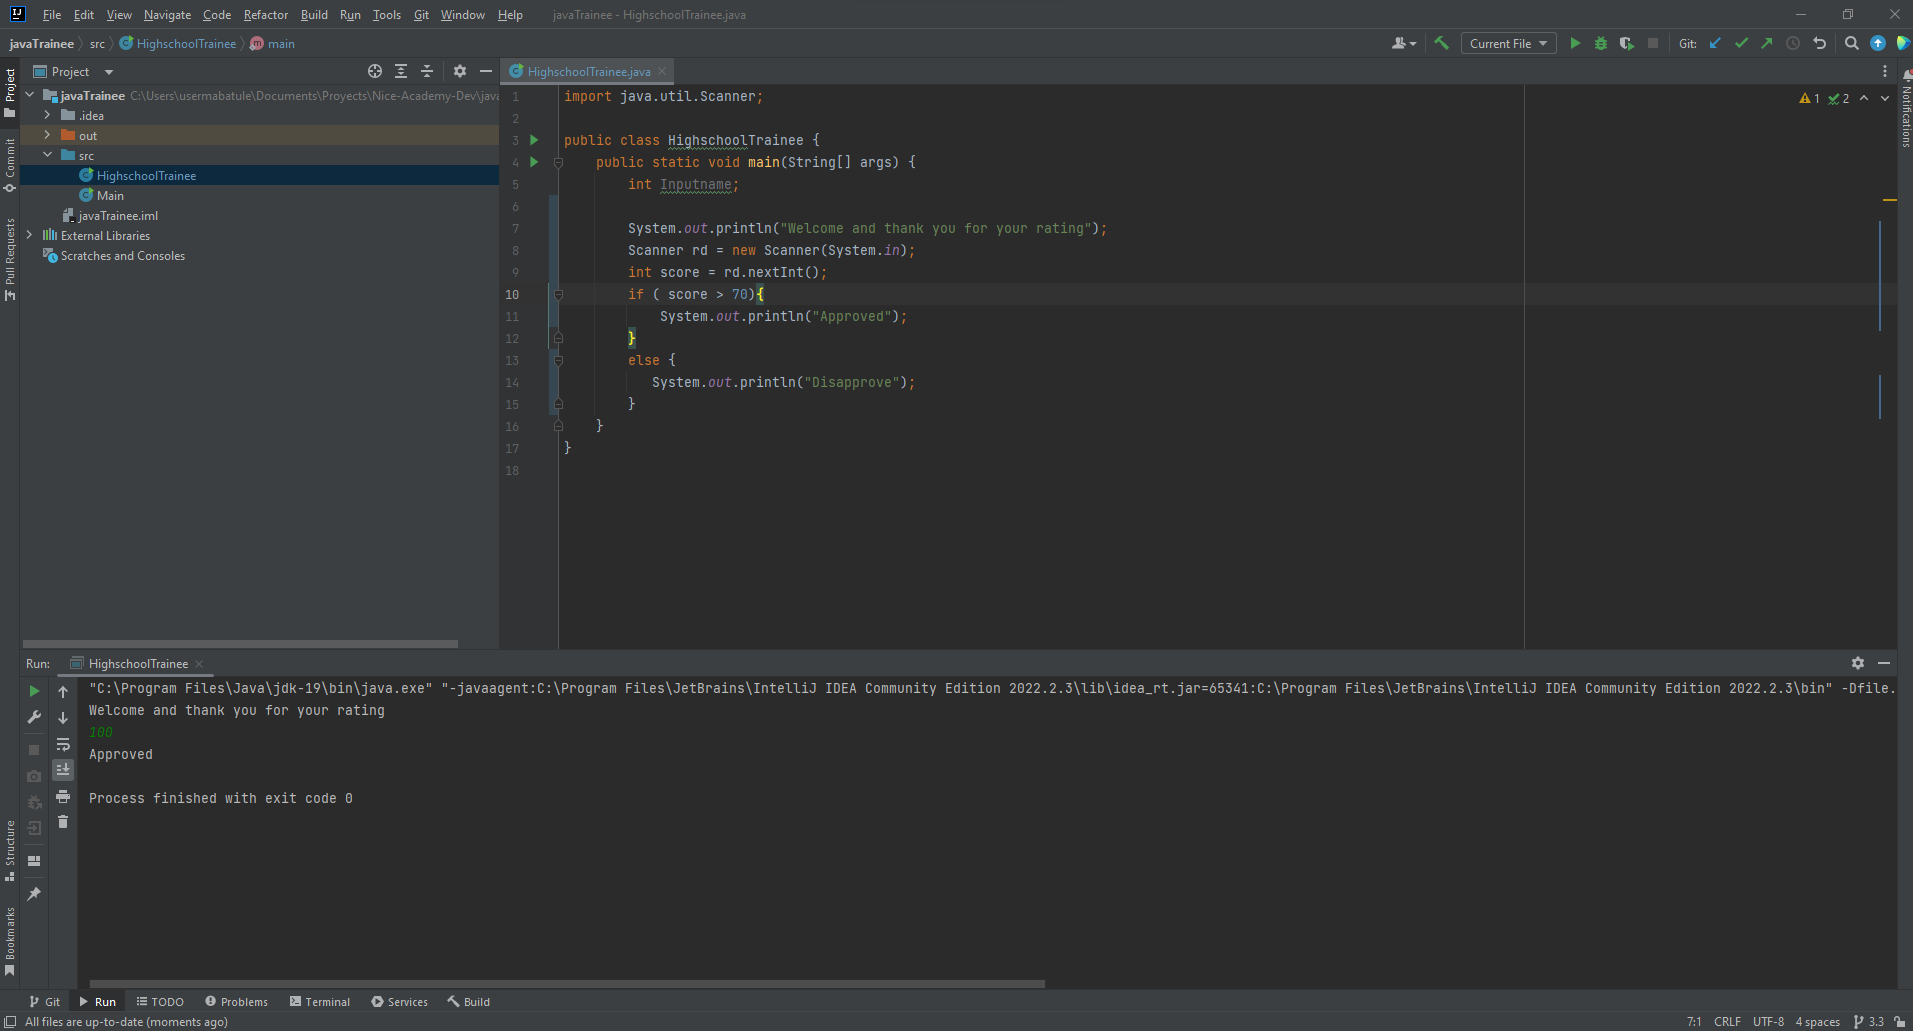
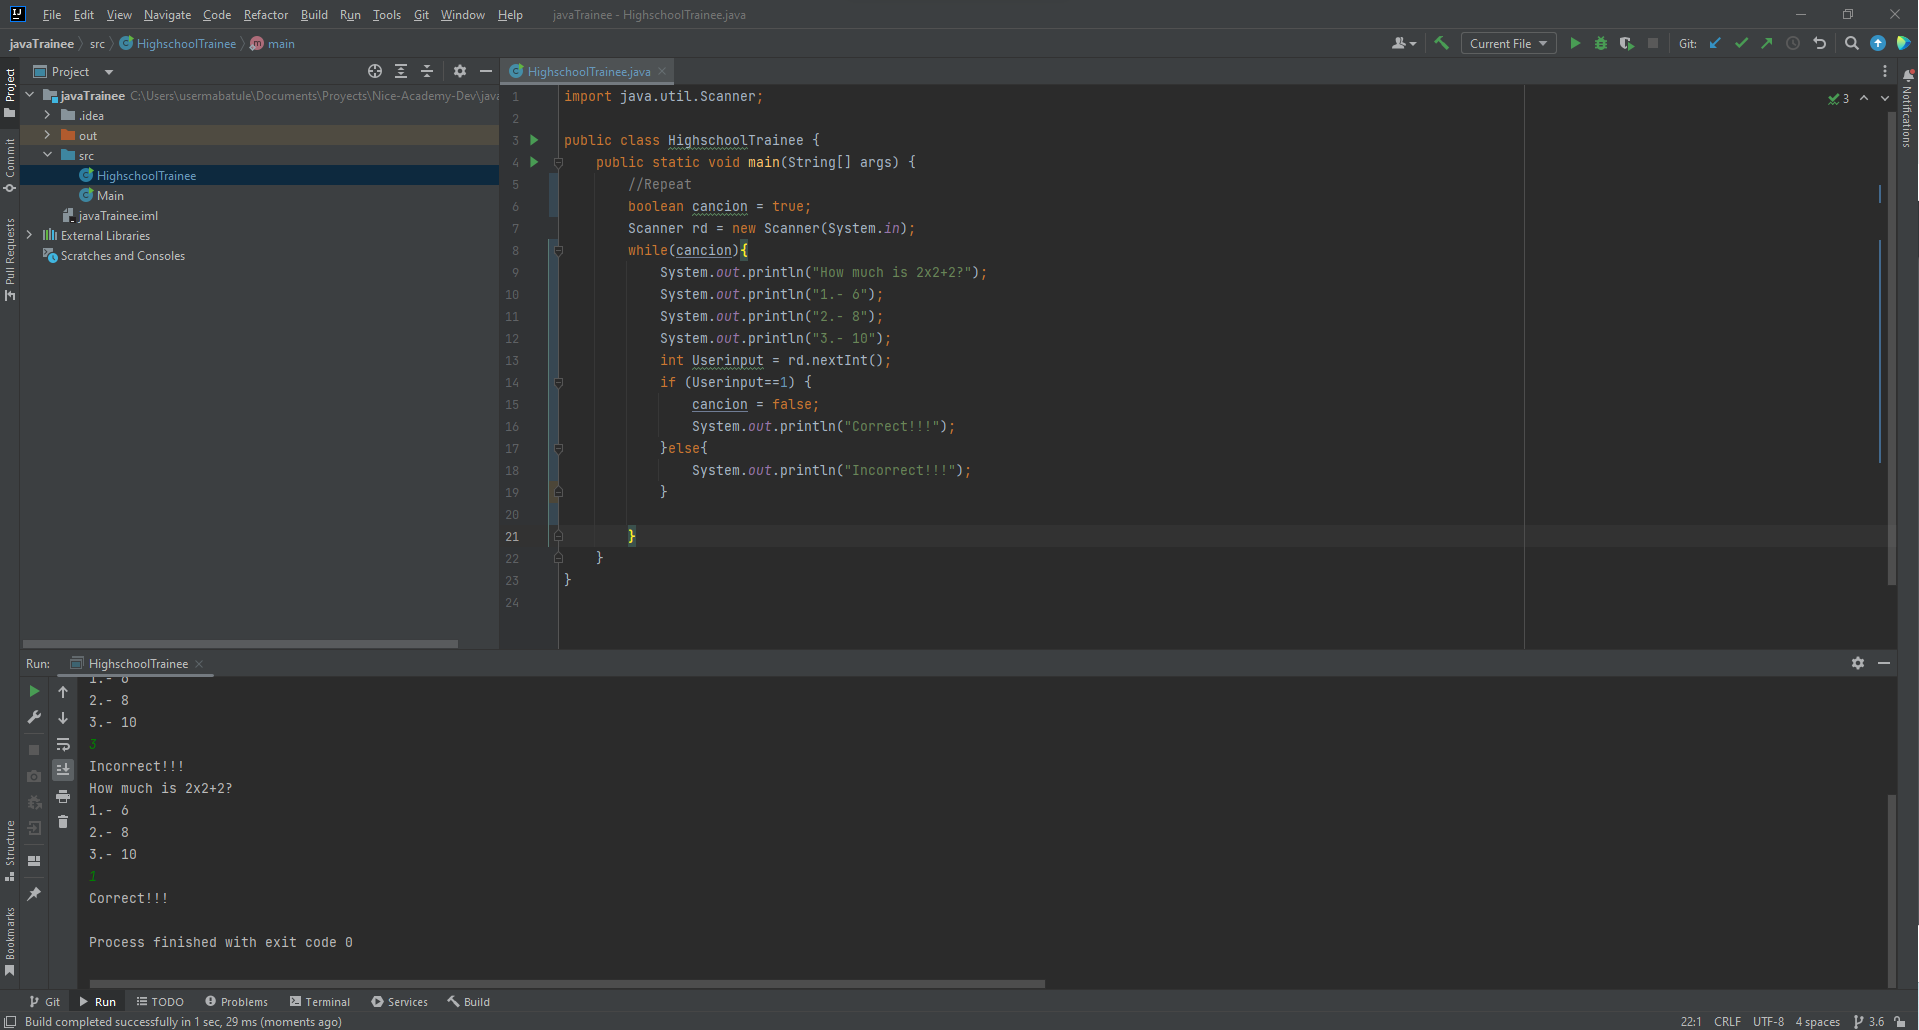
complete exercise 3.6

diff --git a/javaTrainee/src/HighschoolTrainee.java b/javaTrainee/src/HighschoolTrainee.java
@@ -2,16 +2,22 @@ import java.util.Scanner;
 
 public class HighschoolTrainee {
     public static void main(String[] args) {
-        int Inputname;
-
-        System.out.println("Welcome and thank you for your rating");
+        //Repeat
+        boolean cancion = true;
         Scanner rd = new Scanner(System.in);
-        int score = rd.nextInt();
-        if ( score > 70){
-            System.out.println("Approved");
-        }
-        else {
-           System.out.println("Disapprove");
+        while(cancion){
+            System.out.println("How much is 2x2+2?");
+            System.out.println("1.- 6");
+            System.out.println("2.- 8");
+            System.out.println("3.- 10");
+            int Userinput = rd.nextInt();
+            if (Userinput==1) {
+                cancion = false;
+                System.out.println("Correct!!!");
+            }else{
+                System.out.println("Incorrect!!!");
+            }
+
         }
     }
 }
